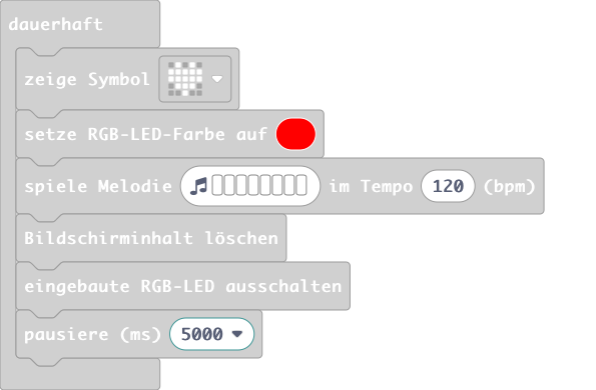
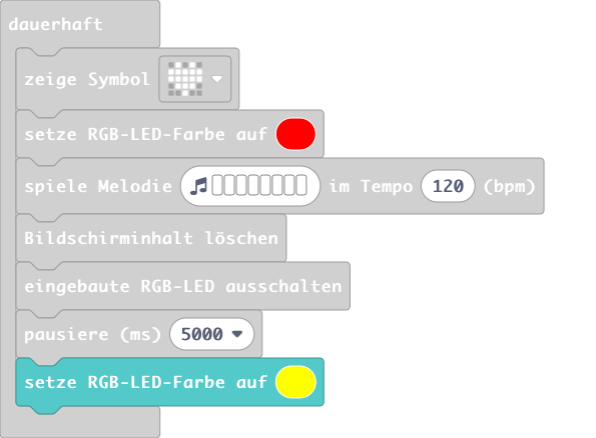
Yellow flash

Changed region(s): [[0.0, 0.0308, 0.9362, 0.9538]]

diff --git a/main.ts b/main.ts
@@ -5,4 +5,5 @@ basic.forever(function () {
     basic.clearScreen()
     basic.turnRgbLedOff()
     basic.pause(5000)
+    basic.setLedColor(0xffff00)
 })
